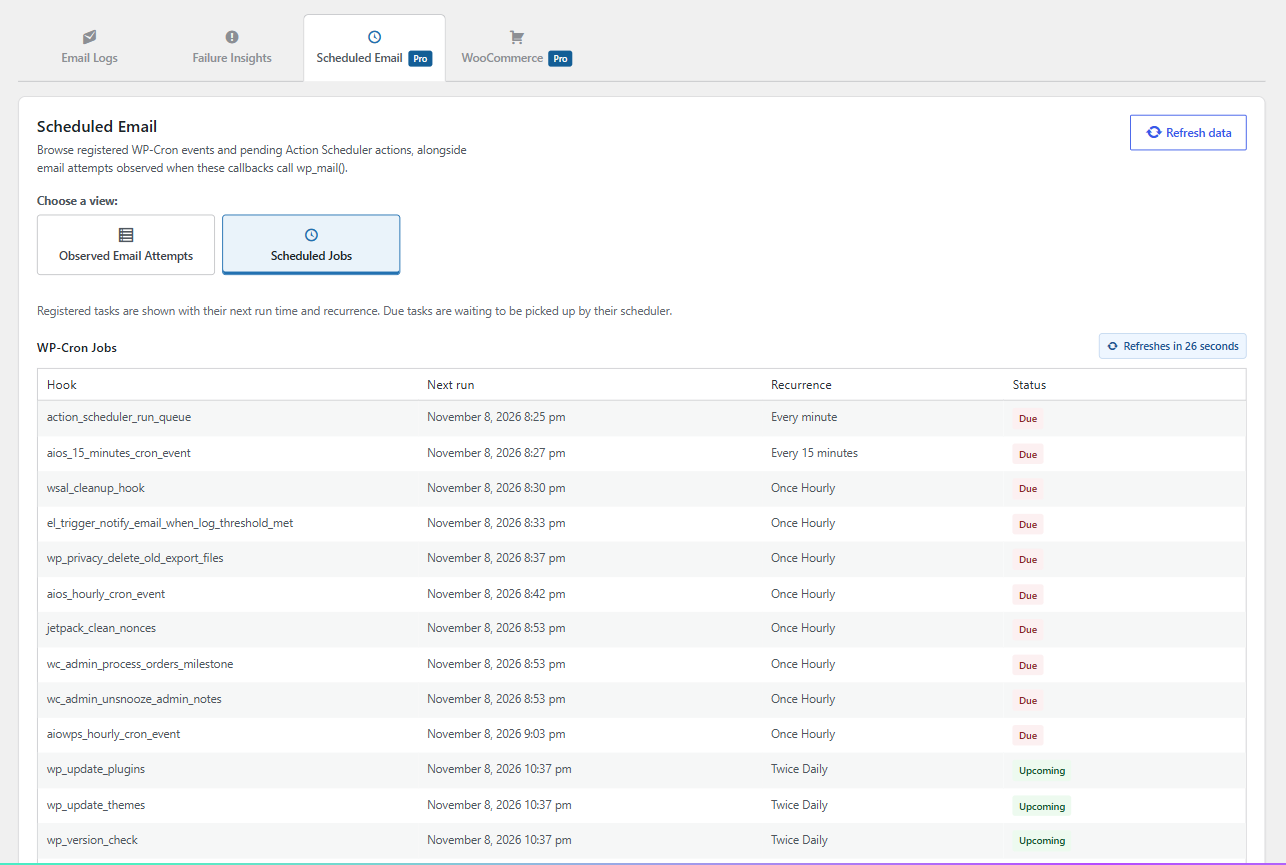
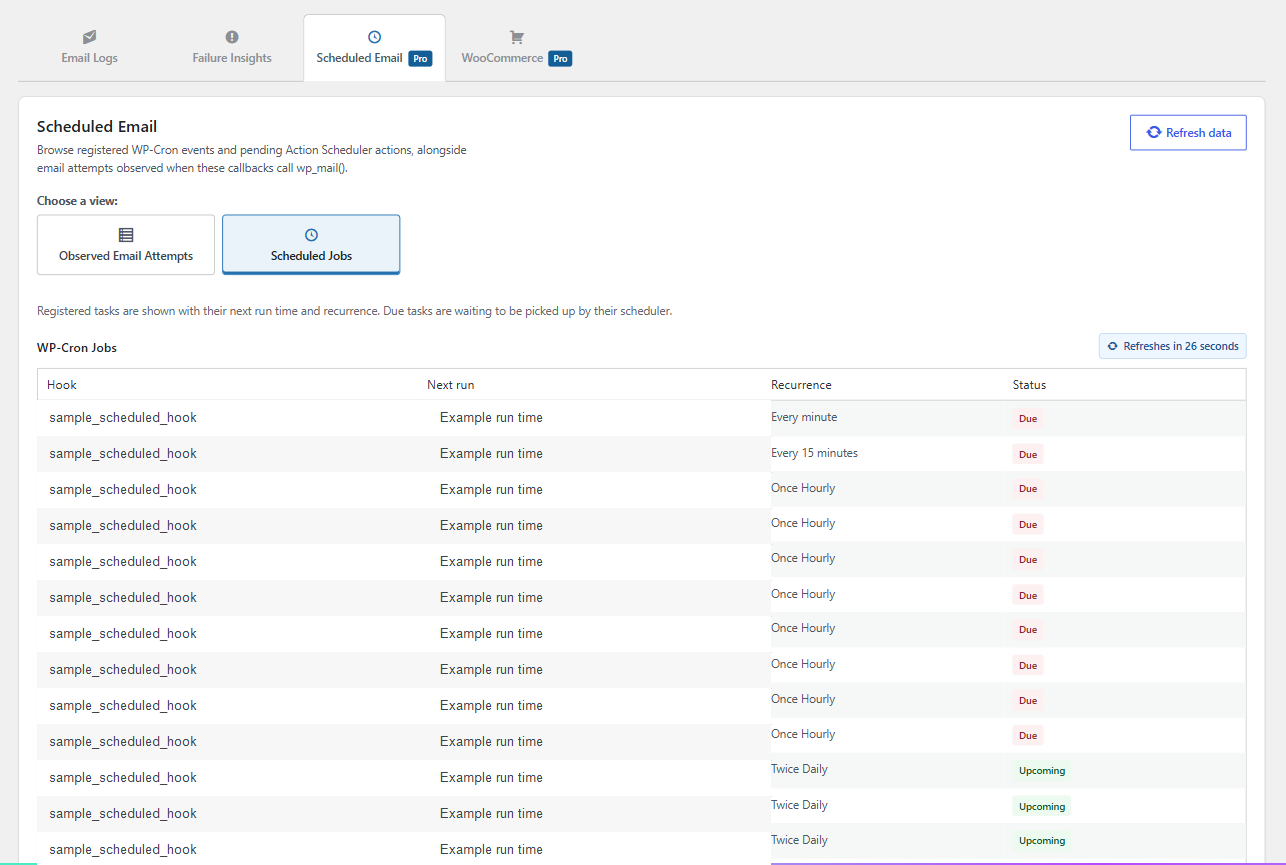
Sanitize and embed report screenshots
- Replace screenshots with cropped versions that remove recipient details and site-specific hook names.
- Embed the Email Logs, Failure Insights, and Scheduled Email images in their guides.
- Note that dashboard figures are test-site examples.

Verified with a strict MkDocs build.

diff --git a/docs/reports.md b/docs/reports.md
@@ -2,11 +2,15 @@
 
 The dashboard lists recent email attempts and provides search, status filters, source filters, and CSV export. Full message details are loaded when you open an individual log.
 
+![Email Logs dashboard showing activity filters, the chart, and summary cards. Activity values are from a test site and vary by site.](email-logs-dashboard.png)
+
 ## Email activity
 
 The Email Activity chart shows daily sent, failed, and pending counts for the selected week or month. The weekly and monthly reports summarize activity over their respective periods.
 
 Failure Insights groups recent failures by source and broad patterns inferred from captured error text. Its suggested checks are guidance, not a confirmed diagnosis.
+
+![Failure Insights summary cards. The displayed figures are test-site data and will vary by site.](failure-insights-tab.png)
 
 ## CSV export and deletion
 

diff --git a/docs/scheduled-email.md b/docs/scheduled-email.md
@@ -7,4 +7,6 @@ The Pro Scheduled Email report has two views:
 
 The report only observes scheduled callbacks that call `wp_mail()`. It does not guarantee that a job will run. WP-Cron generally needs site traffic unless a system cron is configured. A due job is waiting for its scheduler; it is not proof that execution succeeded.
 
+![Scheduled Jobs view with example hook names and run times. Actual jobs depend on the site's configuration.](scheduled-mail-tab.png)
+
 Times are displayed in the site's timezone. Action Scheduler details are available only when the corresponding action ID was captured and the scheduler is available.
